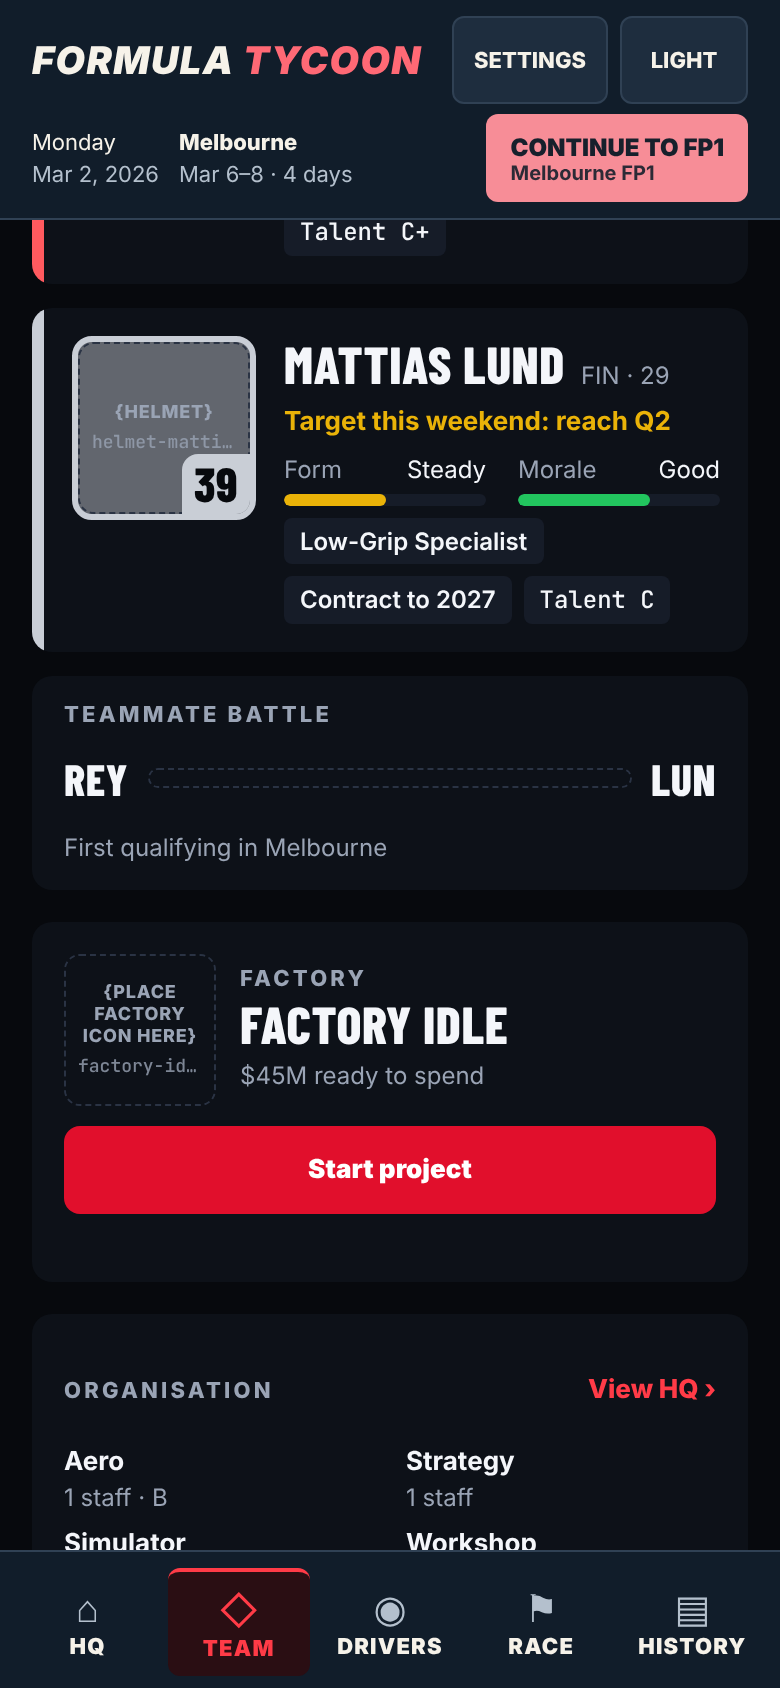
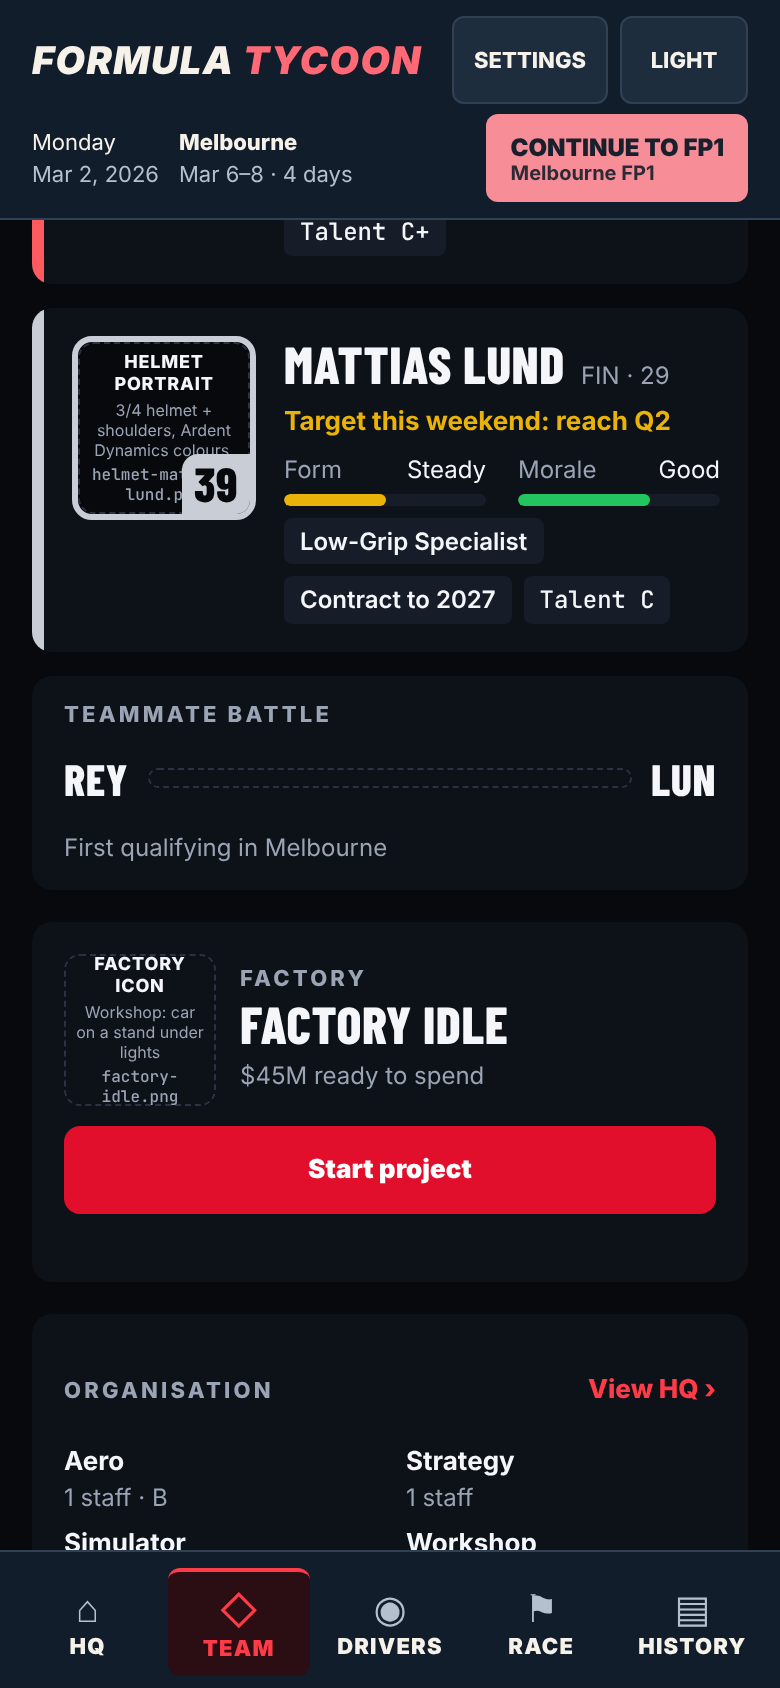
Team screen: describe the art needed in each slot; draw no stand-in art
- Placeholders now state the image to commission: subject, team colours,
  size and file name. Small slots (helmet, factory, track) show a short
  version; the full brief stays in the accessibility label.
- Removed the drawn garage-floor circles and shadow behind the car and
  the tinted portrait backgrounds. Only the portrait frame and the
  race-number badge remain as UI.
- Bible, asset README and DEV_STATUS updated.

Claude-Session: https://claude.ai/code/session_01AUp7J4hN6qj9UE5Nc1pqP9

Changed region(s): [[0.0923, 0.1848, 0.3385, 0.3081], [0.0923, 0.5545, 0.2462, 0.6469]]

diff --git a/src/ui/assets/AssetImage.tsx b/src/ui/assets/AssetImage.tsx
@@ -1,31 +1,37 @@
 import React, {useEffect, useState} from 'react';
 import {Image, Platform, Text, View, type ImageResizeMode, type StyleProp, type ViewStyle} from 'react-native';
 import {useDesign} from '../design/system';
+import type {AssetSpec} from './assetPaths';
 
-type Props = {src: string; label: string; width: number | `${number}%`; aspect: number; resizeMode?: ImageResizeMode;
-  /** Shown while the file is missing: what belongs here. */
-  placeholder: string; fallback?: string; style?: StyleProp<ViewStyle>; testID?: string};
+type Props = {asset: AssetSpec; width: number | `${number}%`; aspect: number; resizeMode?: ImageResizeMode;
+  /** compact: small slots show the title and file only; the full description stays in the accessibility label. */
+  compact?: boolean; style?: StyleProp<ViewStyle>; testID?: string};
 
 /**
- * An optional art file. Web loads it from public/assets; until it exists (or fails to load), a labelled
- * dashed box shows what is missing and the expected file name. Native shows the placeholder: files dropped
- * into a folder cannot be bundled at runtime, so native art needs a generated asset list later.
+ * A commissioned art file. Web loads it from public/assets; until it exists (or fails to load) a labelled dashed
+ * box says what image belongs here, its size and file name. Nothing is drawn in its place. Native shows the
+ * placeholder: files dropped into a folder cannot be bundled at runtime, so native art needs an asset list later.
  */
-export function AssetImage({src, label, width, aspect, resizeMode = 'contain', placeholder, fallback, style, testID}: Props) {
+export function AssetImage({asset, width, aspect, resizeMode = 'contain', compact = false, style, testID}: Props) {
   const {ui, styles} = useDesign();
   const web = Platform.OS === 'web';
   const [state, setState] = useState<'loading' | 'ready' | 'missing'>(web ? 'loading' : 'missing');
-  useEffect(() => { setState(web ? 'loading' : 'missing'); }, [src, web]);
-  const file = src.split('/').pop();
-  return <View testID={testID} accessibilityLabel={label} style={[{width, aspectRatio: aspect, alignItems: 'center', justifyContent: 'center'}, style]}>
-    {web && state !== 'missing' ? <Image source={{uri: src}} accessibilityLabel={label} resizeMode={resizeMode}
+  useEffect(() => { setState(web ? 'loading' : 'missing'); }, [asset.src, web]);
+  const label = `${asset.title}. Image needed: ${asset.description} ${asset.size}, ${asset.file}`;
+  return <View testID={testID} accessibilityLabel={state === 'ready' ? asset.title : label}
+    style={[{width, aspectRatio: aspect, alignItems: 'center', justifyContent: 'center'}, style]}>
+    {web && state !== 'missing' ? <Image source={{uri: asset.src}} accessibilityLabel={asset.title} resizeMode={resizeMode}
       onLoad={() => setState('ready')} onError={() => setState('missing')}
       style={{position: 'absolute', top: 0, left: 0, right: 0, bottom: 0, opacity: state === 'ready' ? 1 : 0}}/> : null}
     {state !== 'ready' ? <View testID={testID ? `${testID}-placeholder` : undefined} style={{position: 'absolute', top: 0, left: 0, right: 0, bottom: 0,
-      borderWidth: 1.5, borderStyle: 'dashed', borderColor: ui.line, borderRadius: 8, alignItems: 'center', justifyContent: 'center', padding: 6, gap: 3}}>
-      {fallback ? <Text style={[styles.heading, {fontSize: 20, color: ui.muted}]}>{fallback}</Text> : null}
-      <Text numberOfLines={3} style={{color: ui.muted, fontSize: 9, fontWeight: '800', letterSpacing: .4, textAlign: 'center'}}>{`{${placeholder}}`}</Text>
-      <Text numberOfLines={1} style={[styles.figure, {color: ui.muted, fontSize: 9, opacity: .8}]}>{file}</Text>
+      borderWidth: 1.5, borderStyle: 'dashed', borderColor: ui.line, borderRadius: 8, alignItems: 'center', justifyContent: 'center',
+      padding: compact ? 4 : 12, gap: compact ? 2 : 6}}>
+      <Text numberOfLines={compact ? 3 : 2} style={{color: ui.ink, fontSize: compact ? 9 : 12, fontWeight: '800', letterSpacing: .4, textAlign: 'center'}}>
+        {compact ? asset.title.toUpperCase() : `IMAGE NEEDED · ${asset.title.toUpperCase()}`}</Text>
+      <Text numberOfLines={compact ? 3 : undefined} style={{color: ui.muted, fontSize: compact ? 8 : 11, lineHeight: compact ? 10 : 15, textAlign: 'center', maxWidth: 420}}>
+        {compact ? asset.short : asset.description}</Text>
+      <Text numberOfLines={2} style={[styles.figure, {color: ui.muted, fontSize: compact ? 8 : 10, textAlign: 'center'}]}>
+        {compact ? asset.file.split('/').pop() : `${asset.file} · ${asset.size}`}</Text>
     </View> : null}
   </View>;
 }

diff --git a/src/ui/assets/assetPaths.ts b/src/ui/assets/assetPaths.ts
@@ -1,15 +1,28 @@
 /**
  * Drop-in art: the game looks for these files under public/assets/ (served at /assets/ on web).
  * Names are predictable so artwork can be added with no code change. See public/assets/README.md.
+ * Each slot carries a description of the commissioned image, shown in its placeholder until the file exists.
+ * The game draws no stand-in art of its own.
  */
 export const slug = (text: string) => text.normalize('NFD').replace(/[̀-ͯ]/g, '').toLowerCase()
   .replace(/[^a-z0-9]+/g, '-').replace(/^-+|-+$/g, '');
-export type AssetKind = 'car' | 'helmet' | 'factory' | 'track';
 export const ASSET_ROOT = '/assets';
+/** short: a few words for small slots; description: the full brief (also in the accessibility label). */
+export type AssetSpec = {src: string; file: string; title: string; short: string; description: string; size: string};
+type Colors = {primary: string; secondary: string; accent: string};
+const spec = (folder: string, file: string, title: string, short: string, description: string, size: string): AssetSpec =>
+  ({src: `${ASSET_ROOT}/${folder}/${file}`, file: `${folder}/${file}`, title, short, description, size});
+const palette = (c: Colors) => `${c.primary} / ${c.secondary} / ${c.accent}`;
+
 /** Team car from the team's short name in the active roster pack, e.g. car-ardent.png. */
-export const carAsset = (teamShortName: string) => `${ASSET_ROOT}/cars/car-${slug(teamShortName)}.png`;
+export const carAsset = (team: {name: string; shortName: string; colors: Colors}) => spec('cars', `car-${slug(team.shortName)}.png`,
+  `${team.name} car`, 'Isometric car, transparent', `Isometric three-quarter view from above, ${team.name} livery (${palette(team.colors)}), bold diagonal sweep. Transparent background, no floor or shadow.`, '1600 × 1000');
 /** Helmet portrait from the driver's shown name, accents dropped, e.g. helmet-elodie-marchetti.png. */
-export const helmetAsset = (driverName: string) => `${ASSET_ROOT}/helmets/helmet-${slug(driverName)}.png`;
-export const factoryAsset = (active: boolean) => `${ASSET_ROOT}/factory/factory-${active ? 'active' : 'idle'}.png`;
+export const helmetAsset = (driver: string, team: {name: string; colors: Colors}) => spec('helmets', `helmet-${slug(driver)}.png`,
+  'Helmet portrait', `3/4 helmet + shoulders, ${team.name} colours, own stripes`, `Three-quarter helmet and shoulders in ${team.name} colours (${palette(team.colors)}) with ${driver}'s own stripe pattern. No race number.`, '1024 × 1024');
+export const factoryAsset = (active: boolean) => spec('factory', `factory-${active ? 'active' : 'idle'}.png`,
+  'Factory icon', active ? 'Workshop, lights on, people working' : 'Workshop: car on a stand under lights', active ? 'Workshop scene with lights on, sparks and people working. Transparent background.'
+    : 'Small workshop scene: a car on a stand under lights, neutral colours. Transparent background.', '512 × 512');
 /** Track outline from the stable circuit ID (not its display name), e.g. track.mexico_city -> track-mexico-city.svg. */
-export const trackAsset = (trackId: string) => `${ASSET_ROOT}/tracks/track-${slug(trackId.replace(/^track\./, ''))}.svg`;
+export const trackAsset = (trackId: string, venue: string) => spec('tracks', `track-${slug(trackId.replace(/^track\./, ''))}.svg`,
+  'Track outline', `${venue}, white line, start/finish`, `Single-colour ${venue} circuit outline, thick rounded white line, start/finish marked. Transparent.`, '600 × 400');

diff --git a/src/ui/team/DriverCards.tsx b/src/ui/team/DriverCards.tsx
@@ -5,7 +5,7 @@ import type {TeamScreenModel} from '../../simulation/teamScreen';
 import {AssetImage} from '../assets/AssetImage';
 import {helmetAsset} from '../assets/assetPaths';
 import {Chip, Meter, Panel} from './bits';
-import {contrast, inkOn, tint, toneColor} from './colors';
+import {contrast, inkOn, toneColor} from './colors';
 
 type Driver = TeamScreenModel['drivers'][number];
 /**
@@ -26,9 +26,8 @@ export function DriverCard({driver: d, index, team, wide, onPress}: {driver: Dri
     <View style={{width: 6, backgroundColor: frame}}/>
     <View style={{flex: 1, flexDirection: 'row', gap: 14, padding: 14, minWidth: 0}}>
       <View style={{width: size, height: size, borderRadius: 10, borderWidth: 3, borderColor: frame, overflow: 'hidden',
-        backgroundColor: tint(frame, ui.surface, .55)}}>
-        <AssetImage testID={`asset-helmet-${index}`} src={helmetAsset(d.name)} label={`${d.name} helmet`} width="100%" aspect={1}
-          placeholder="HELMET" style={{borderRadius: 0}}/>
+        backgroundColor: ui.bg}}>
+        <AssetImage testID={`asset-helmet-${index}`} asset={helmetAsset(d.name, team)} width="100%" aspect={1} compact/>
         {d.number !== null ? <View style={{position: 'absolute', right: 0, bottom: 0, minWidth: 34, paddingHorizontal: 5, paddingVertical: 1,
           borderTopLeftRadius: 8, backgroundColor: frame, alignItems: 'center'}}>
           <Text style={[styles.title, {color: inkOn(frame), fontSize: 24, lineHeight: 28}]}>{d.number}</Text></View> : null}

diff --git a/src/ui/team/CarCard.tsx b/src/ui/team/CarCard.tsx
@@ -31,14 +31,10 @@ export function CarCard({model, wide, onViewCar}: {model: TeamScreenModel; wide:
 
 function GarageFloor({team}: {team: TeamScreenModel['team']}) {
   const {ui} = useDesign();
-  // Dark radial "garage floor" in flat layers; the car file itself is transparent and the game adds the shadow.
+  // Plain dark slot. The car art (transparent PNG) is commissioned; the game draws no stand-in shapes.
   return <View style={{flex: 1.15, minWidth: 0, aspectRatio: 1.45, borderRadius: 10, overflow: 'hidden', backgroundColor: ui.bg,
-    alignItems: 'center', justifyContent: 'center'}}>
-    {[1.3, 1, .72].map((s, i) => <View key={s} style={{position: 'absolute', width: `${s * 100}%`, aspectRatio: 1, borderRadius: 9999,
-      backgroundColor: ui.raised, opacity: .22 + i * .14}}/>)}
-    <View style={{position: 'absolute', bottom: '18%', width: '62%', height: '12%', borderRadius: 999, backgroundColor: '#000', opacity: .45}}/>
-    <AssetImage testID="asset-car" src={carAsset(team.shortName)} label={`${team.name} car`} width="86%" aspect={1.6}
-      placeholder="PLACE CAR IMAGE HERE"/>
+    alignItems: 'center', justifyContent: 'center', padding: 10}}>
+    <AssetImage testID="asset-car" asset={carAsset(team)} width="100%" aspect={1.6}/>
   </View>;
 }
 

diff --git a/src/ui/team/SeasonStrip.tsx b/src/ui/team/SeasonStrip.tsx
@@ -23,7 +23,7 @@ export function SeasonStrip({model, wide, onCalendar}: {model: TeamScreenModel; 
     {s.upcoming.map(e => <View key={e.eventId} testID={e.isNext ? 'season-next' : undefined}
       style={[TILE, {flexDirection: 'row', alignItems: 'center', gap: 10, backgroundColor: e.isNext ? ui.accentMuted : ui.raised,
         borderWidth: e.isNext ? 2 : 0, borderColor: ui.danger}]}>
-      <AssetImage src={trackAsset(e.trackId)} label={`${e.venue} circuit outline`} width={72} aspect={1.4} placeholder="TRACK OUTLINE"/>
+      <AssetImage asset={trackAsset(e.trackId, e.venue)} width={72} aspect={1.4} compact/>
       <View style={{gap: 2, flexShrink: 1}}>
         <Text style={[styles.eyebrow, {color: e.isNext ? ui.danger : ui.muted}]}>{e.isNext ? `NEXT · R${e.round}` : `R${e.round}`}</Text>
         <Text numberOfLines={1} style={[styles.title, {fontSize: 20, lineHeight: 22}]}>{e.venue}</Text>

diff --git a/src/ui/team/colors.ts b/src/ui/team/colors.ts
@@ -7,8 +7,3 @@ export const contrast = (a: string, b: string) => { const x = lum(a), y = lum(b)
 /** Readable text on a team-coloured surface. */
 export const inkOn = (color: string) => contrast(color, '#FFFFFF') >= contrast(color, '#07090D') ? '#FFFFFF' : '#07090D';
 export const toneColor = (ui: VisualTheme, tone: Tone) => tone === 'good' ? ui.green : tone === 'even' ? ui.gold : ui.caution;
-/** Mix a team colour toward the surface, for portrait tints (presentation only; the canonical palette is unchanged). */
-export function tint(color: string, toward: string, amount: number) {
-  const c = (h: string, i: number) => parseInt(h.slice(i, i + 2), 16);
-  return '#' + [1, 3, 5].map(i => Math.round(c(color, i) * (1 - amount) + c(toward, i) * amount).toString(16).padStart(2, '0')).join('');
-}

diff --git a/src/ui/team/FactoryOrg.tsx b/src/ui/team/FactoryOrg.tsx
@@ -10,7 +10,7 @@ export function FactoryTile({model, onOpen}: {model: TeamScreenModel; onOpen: ()
   const {ui, styles} = useDesign(), f = model.factory;
   return <Panel testID="team-factory" style={{flex: 1, gap: 10}}>
     <View style={{flexDirection: 'row', alignItems: 'center', gap: 12}}>
-      <AssetImage testID="asset-factory" src={factoryAsset(!f.idle)} label="Factory" width={76} aspect={1} placeholder="PLACE FACTORY ICON HERE"/>
+      <AssetImage testID="asset-factory" asset={factoryAsset(!f.idle)} width={76} aspect={1} compact/>
       <View style={{flex: 1, minWidth: 0, gap: 2}}>
         <Text style={styles.eyebrow}>FACTORY</Text>
         <Text numberOfLines={1} adjustsFontSizeToFit style={[styles.title, {fontSize: 26, lineHeight: 28}]}>{f.title}</Text>

diff --git a/docs/GRAPHIC_DESIGN_BIBLE.md b/docs/GRAPHIC_DESIGN_BIBLE.md
@@ -132,8 +132,9 @@ must not carry essential meaning: pair it with readable names, labels and silhou
 Final car, helmet-portrait, factory and track art is commissioned as image files, not drawn in code. The Team
 overview loads them from `public/assets/{cars,helmets,factory,tracks}/` with predictable names
 (`public/assets/README.md`); until a file exists the slot shows a labelled dashed placeholder naming the missing
-file. Cars and helmets have transparent backgrounds: the game adds the garage floor, shadow, portrait tint, frame
-and race-number badge. The earlier parametric vector helmet/car candidates were retired unshipped. Web loads
+file and describing the image to commission (subject, colours, size). The game draws NO stand-in art, backdrop
+shapes or shadows for these slots: only the portrait frame and race-number badge are UI. Cars and helmets have
+transparent backgrounds. The earlier parametric vector helmet/car candidates were retired unshipped. Web loads
 dropped-in files at runtime; native builds need a generated asset list before they can show them. The existing
 `DriverPortrait` template remains the portrait elsewhere until that art lands.
 

diff --git a/docs/DEV_STATUS.md b/docs/DEV_STATUS.md
@@ -20,7 +20,8 @@ On Dirac (`claude/happy-dirac-pw7zmq`). Presentation only: no simulation, save, 
     - F: the overview uses the broadcast surface in both themes.
     - G: the section 8 vector templates are removed.
   - Drop-in art: `AssetImage` loads `public/assets/{cars,helmets,factory,tracks}/` (names in
-    `public/assets/README.md`) and falls back to labelled dashed placeholders. Added a `caution` token.
+    `public/assets/README.md`). Missing files show dashed placeholders that describe the image to commission
+    (subject, colours, size, file); no stand-in art, backdrop shapes or shadows are drawn. Added a `caution` token.
 - **TESTED:**
   - 478/478 tests, including 6 new view-model tests: read-only, no bare 0, honest empty states, bars and tags, real
     departments, qualifying-derived results and head-to-head, and cosmetic-pack renames.

diff --git a/public/assets/README.md b/public/assets/README.md
@@ -1,7 +1,8 @@
 # Drop-in art
 
 The Team screen looks for these files. Add a file with the right name and it appears; no code change.
-Until a file exists, its slot shows a dashed placeholder naming the file it expects.
+Until a file exists, its slot shows a dashed placeholder describing the image needed and naming the file it
+expects. The game draws no stand-in art.
 
 | Folder | File name | Size | Notes |
 |---|---|---|---|
